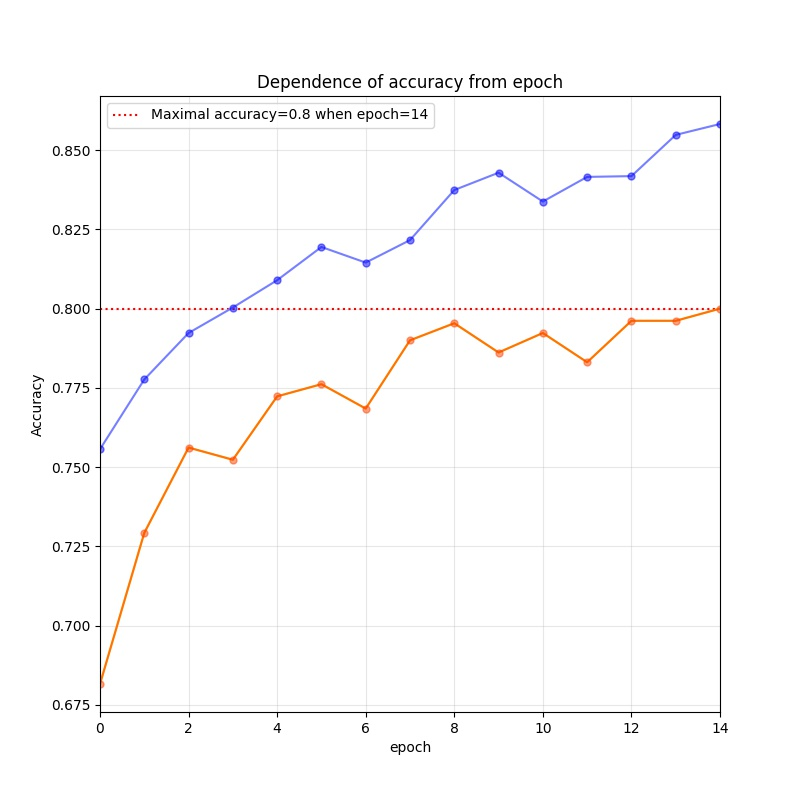
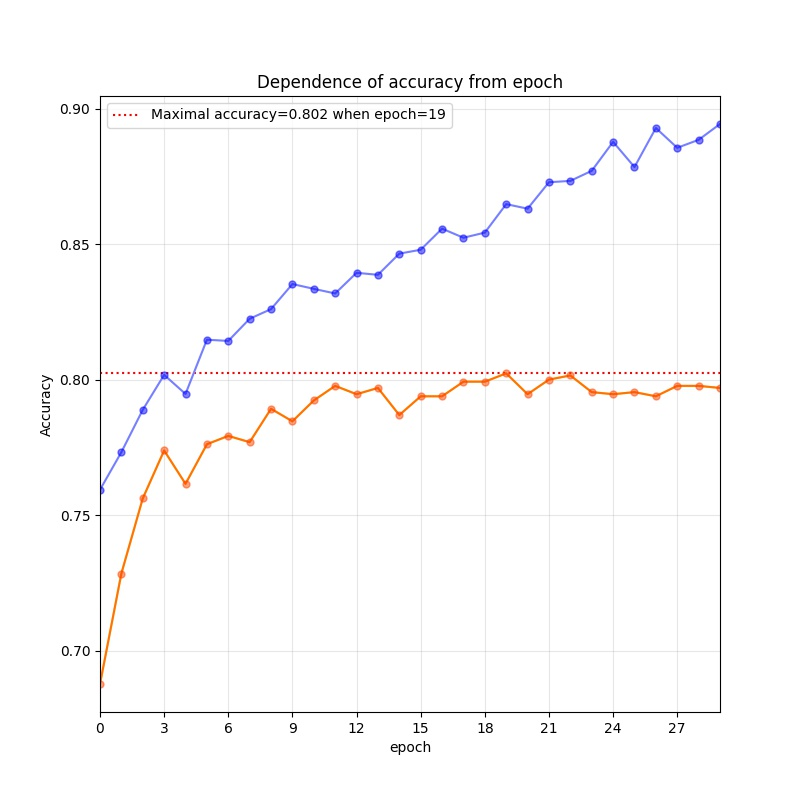
refactoring

diff --git a/src/polarity/loader.py b/src/polarity/loader.py
@@ -10,14 +10,14 @@ from src.review.parsed_sentence import ParsedSentence
 Batch = namedtuple(
     'Batch',
     [
-        # indexes to set classification results
+        # Indexes to set classification results to sentence
         'sentence_index',
         'target_index',
-        # gpu part
+        # GPU part. This fields will be passed to GPU.
         'sentence_len',
         'embed_ids',
         'graph',
-        # cpu part
+        # CPU part
         'target_mask',
         'polarity'
     ])
@@ -26,12 +26,14 @@ Batch = namedtuple(
 class DataLoader:
     """DataLoader for polarity classifier.
 
-    Create batch element for every target.
+    Create batches from sentences. Create batch element for every target.
 
     Attributes
     ----------
     vocabulary : dict
-        dictionary where key is wordlemma_POS value - index in embedding matrix
+        dictionary where key is 'wordlemma_POS' value - index in embedding matrix
+    data : List[List[Batch]]
+        Split to chunks batch elements.
     """
     def __init__(self,
                  vocabulary: Dict[str, int],
@@ -47,8 +49,6 @@ class DataLoader:
         self.pad_word = pad_word
 
         data = self.process(sentences)
-        self.num_examples = len(data)
-
         data = [data[i:i + batch_size] for i in range(0, len(data), batch_size)]
         self.data = data
 
@@ -62,7 +62,13 @@ class DataLoader:
         return processed
 
     def process_sentence(self, sentence: ParsedSentence, sentence_index: int) -> List[Batch]:
-        """Process one sentence"""
+        """Process one sentence
+
+        Returns
+        -------
+        processed : List[Batch]
+            Batch elements for every target.
+        """
         processed = []
 
         embed_ids = []
@@ -98,18 +104,28 @@ class DataLoader:
                       polarity=polarity))
         return processed
 
-    def __getitem__(self, key: int) -> Batch:
+    def __getitem__(self, batch_index: int) -> Batch:
         """
-        Return batch as named tuple where each element is th.Tensor where
-        first dimension is element in batch
+        Return batch as named tuple where each element is th.Tensor or batched dgl.DGLGraph.
+        First dimension of tensors correspond to batch elements.
+
+        Parameters
+        ----------
+        batch_index : int
+            Index of batch in dataset.
+
+        Returns
+        -------
+        batch : Batch
+            namedtuple of th.Tensors and batched dgl.DGLGraph.
         """
 
-        if not isinstance(key, int):
+        if not isinstance(batch_index, int):
             raise TypeError
-        if key < 0 or key >= len(self.data):
+        if batch_index < 0 or batch_index >= len(self.data):
             raise IndexError
 
-        batch = self.data[key]
+        batch = self.data[batch_index]
         batch_size = len(batch)
         max_len = max([x.sentence_len for x in batch])
         batch = sort_by_sentence_len(batch=batch)
@@ -123,17 +139,16 @@ class DataLoader:
         for i, b in enumerate(batch):
             embed_ids[i, :b.sentence_len] = th.LongTensor(b.embed_ids)
 
-        batch = Batch(sentence_index=sentence_index,
-                      target_index=target_index,
-                      sentence_len=sentence_lens.to(self.device),
-                      embed_ids=embed_ids.to(self.device),
-                      graph=dgl.batch([item.graph for item in batch]),
-                      target_mask=th.cat([item.target_mask for item in batch]),
-                      polarity=polarity)
-        return batch
+        return Batch(sentence_index=sentence_index,
+                     target_index=target_index,
+                     sentence_len=sentence_lens.to(self.device),
+                     embed_ids=embed_ids.to(self.device),
+                     graph=dgl.batch([item.graph for item in batch]),
+                     target_mask=th.cat([item.target_mask for item in batch]),
+                     polarity=polarity)
 
     def __iter__(self) -> Batch:
-        """Iterate over batches"""
+        """Iterate over batches - chunks of dataset"""
         for i in range(self.__len__()):
             yield self.__getitem__(i)
 
@@ -143,8 +158,7 @@ class DataLoader:
 
 
 def sort_by_sentence_len(batch: List[Batch]) -> List[Batch]:
-    """
-    Sort sentences by descending order of it's len.
+    """Sort sentences by descending order of it's len.
 
     Not return original index because there is already sentence and target
     indexes in batch.

diff --git a/src/polarity/classifier.py b/src/polarity/classifier.py
@@ -15,7 +15,7 @@ from src import SCORE_DECIMAL_LEN, polarity_classifier_dump_path
 from src.review.parsed_sentence import ParsedSentence
 from src.review.target import Polarity
 from .loader import DataLoader, Batch
-from .nn.sequence_classifier import SequenceClassifier
+from .nn.target_classifier import TargetClassifier
 from .score.display import display_score
 
 
@@ -36,7 +36,7 @@ class PolarityClassifier:
                  word2vec: KeyedVectors = ...,
                  vocabulary: Dict[str, int] = ...,
                  emb_matrix: th.Tensor = ...,
-                 batch_size=50):
+                 batch_size=100):
         self.device = th.device('cuda' if th.cuda.is_available() else 'cpu')
         self.batch_size = batch_size
 
@@ -49,9 +49,9 @@ class PolarityClassifier:
 
         while True:
             try:
-                self.model = SequenceClassifier(emb_matrix=emb_matrix,
-                                                device=self.device,
-                                                num_class=len(Polarity))
+                self.model = TargetClassifier(emb_matrix=emb_matrix,
+                                              device=self.device,
+                                              num_class=len(Polarity))
             except RuntimeError as e:
                 if 'out of memory' in str(e):
                     # todo: handle
@@ -63,6 +63,7 @@ class PolarityClassifier:
                 break
 
     def batch_metrics(self, batch: Batch):
+        """Make a forward step and return metrics"""
         logits, gcn_outputs = self.model(embed_ids=batch.embed_ids,
                                          graph=batch.graph,
                                          target_mask=batch.target_mask,
@@ -81,7 +82,8 @@ class PolarityClassifier:
                 'lr': 0.01,
                 'weight_decay': 0,
             }),
-            num_epoch=15):
+            num_epoch=30):
+        """Fit on train sentences and save model state."""
         parameters = [p for p in self.model.parameters() if p.requires_grad]
         logging.info(
             f'Number of parameters: {sum((reduce(lambda x, y: x * y, p.shape)) for p in parameters)}'
@@ -153,6 +155,18 @@ class PolarityClassifier:
         return train_acc_history, val_acc_history
 
     def predict(self, sentences: List[ParsedSentence]) -> List[ParsedSentence]:
+        """Modify passed sentences. Define every target polarity.
+
+        Parameters
+        ----------
+        sentences : List[ParsedSentence]
+            Sentences with extracted targets.
+
+        Return
+        -------
+        sentences : List[ParsedSentence]
+            Sentences with defined polarity of every target.
+        """
         self.model.eval()
         sentences = copy.deepcopy(sentences)
         batches = DataLoader(sentences=sentences,
@@ -172,6 +186,7 @@ class PolarityClassifier:
         return sentences
 
     def save_model(self):
+        """Save model state."""
         th.save({
             'vocabulary': self.vocabulary,
             'model': self.model.state_dict()
@@ -179,6 +194,7 @@ class PolarityClassifier:
 
     @staticmethod
     def load_model() -> 'PolarityClassifier':
+        """Load pretrained model."""
         checkpoint = th.load(polarity_classifier_dump_path)
         model = checkpoint['model']
         classifier = PolarityClassifier(vocabulary=checkpoint['vocabulary'],

diff --git a/src/polarity/nn/target_classifier.py b/src/polarity/nn/target_classifier.py
@@ -1,3 +1,5 @@
+from typing import Tuple
+
 import torch as th
 import torch.nn as nn
 import dgl
@@ -5,7 +7,14 @@ import dgl
 from .nn import LSTMNN
 
 
-class SequenceClassifier(nn.Module):
+class TargetClassifier(nn.Module):
+    """Targets polarity classifier
+
+    Essential stages:
+    - Encode sequence elements with neural networks.
+    - Get encodings for targets.
+    - Map encodings to num_classes
+    """
     def __init__(self,
                  emb_matrix: th.Tensor,
                  device: th.device,
@@ -21,16 +30,25 @@ class SequenceClassifier(nn.Module):
         self.classifier = nn.Linear(tree_lstm_dim, num_class)
 
     def forward(self, embed_ids: th.Tensor, graph: dgl.DGLGraph, target_mask: th.Tensor,
-                sentence_len: th.Tensor):
+                sentence_len: th.Tensor) -> Tuple[th.Tensor, th.Tensor]:
+        """Forward step.
+
+        Return
+        -------
+        logits : th.Tensor
+            For every class.
+        outputs : th.Tensor
+            Hidden state (encoding) for every target.
+        """
         h = self.nn(embed_ids=embed_ids, graph=graph, sentence_len=sentence_len)
 
-        # get hidden state for each aspect
+        # get hidden state for every target
         h = h[target_mask.nonzero().squeeze(1)].cpu()
         target_lens = [
             int(x.sum().item()) for x in target_mask.split([l for l in sentence_len], dim=0)
         ]
         outputs = th.stack([x.sum(dim=0) / x.size(0) for x in h.split(target_lens, dim=0)])
 
-        # make predictions for each class
+        # make predictions for every class
         logits = self.classifier(outputs)
         return logits, outputs

diff --git a/src/target/internal_classifiers/random_forest.py b/src/target/internal_classifiers/random_forest.py
@@ -6,7 +6,7 @@ from sklearn.ensemble import RandomForestClassifier
 from gensim.models import KeyedVectors
 import numpy as np
 
-from src.target.target_classifier import TargetClassifier
+from src.target.miner import TargetMiner
 from src.review.parsed_sentence import ParsedSentence
 from ..score.optimal_parameter_oob import analyse_parameter_oob
 from ..score.metrics import print_sb12
@@ -36,7 +36,7 @@ def analyze_random_forest(word2vec: KeyedVectors, train_sentences: List[ParsedSe
         parameters[name] = optimal_param
         logging.info(f'{name}: {optimal_param}')
 
-    train_df, train_y = TargetClassifier.load_data()
+    train_df, train_y = TargetMiner.load_data()
 
     #     train_df, train_y = TargetClassifier(word2vec=word2vec).get_df(
     #         sentences=train_sentences)
@@ -52,7 +52,7 @@ def analyze_random_forest(word2vec: KeyedVectors, train_sentences: List[ParsedSe
     # test
     sentences_pred = copy.deepcopy(test_sentences)
     classifier = classifier_class(**parameters)
-    target_classifier = TargetClassifier(classifier=classifier, word2vec=word2vec)
+    target_classifier = TargetMiner(classifier=classifier, word2vec=word2vec)
     target_classifier.fit(df=train_df, y=train_y)
     sentences_pred = target_classifier.predict(sentences_pred)
     print_sb12(sentences=test_sentences, sentences_pred=sentences_pred)

diff --git a/source.py b/source.py
@@ -13,7 +13,7 @@ from src.preprocess.dep_parse import load_parsed_reviews
 from src import parsed_reviews_dump_path
 from src.utils.embedding import get_embeddings
 from src.target.internal_classifiers import analyze_random_forest
-from src.target.target_classifier import TargetClassifier
+from src.target.miner import TargetMiner
 from src.target.internal_classifiers.random_forest import parameters as random_forest_parameters
 from src.target.score.metrics import print_sb12
 from src.target.score.metrics import print_sb3
@@ -50,7 +50,7 @@ def targets_extraction(train_sentences: List[ParsedSentence],
                        test_sentences: List[ParsedSentence]):
     """Print metric for target extraction"""
     classifier = RandomForestClassifier(**random_forest_parameters)
-    target_classifier = TargetClassifier(classifier=classifier, word2vec=word2vec)
+    target_classifier = TargetMiner(classifier=classifier, word2vec=word2vec)
     target_classifier.fit(sentences=train_sentences)
     sentences_pred = target_classifier.predict(test_sentences)
     print_sb12(sentences=test_sentences, sentences_pred=sentences_pred)

diff --git a/src/target/score/optimal_parameter.py b/src/target/score/optimal_parameter.py
@@ -5,7 +5,7 @@ from tqdm import tqdm
 from gensim.models import KeyedVectors
 from sklearn.model_selection import KFold
 
-from src.target.target_classifier import TargetClassifier
+from src.target.miner import TargetMiner
 from src.review.parsed_sentence import ParsedSentence
 from .display import display_score
 
@@ -21,7 +21,7 @@ def calculate_score(sentences: List[ParsedSentence], classifier_class: type,
     scores = list()
     for train_indexes, test_indexes in KFold(n_splits=N_SPLITS).split(sentences):
         classifier = classifier_class(**{**fixed_parameters, parameter_name: parameter_val})
-        target_classifier = TargetClassifier(classifier=classifier, word2vec=word2vec)
+        target_classifier = TargetMiner(classifier=classifier, word2vec=word2vec)
         target_classifier.fit(sentences=[x for x in map(sentences.__getitem__, train_indexes)])
         scores.append(
             target_classifier.score(

diff --git a/src/target/internal_classifiers/gradient_boosting.py b/src/target/internal_classifiers/gradient_boosting.py
@@ -6,7 +6,7 @@ from sklearn.ensemble import GradientBoostingClassifier
 from gensim.models import KeyedVectors
 import numpy as np
 
-from src.target.target_classifier import TargetClassifier
+from src.target.miner import TargetMiner
 from src.review.parsed_sentence import ParsedSentence
 from ..score.optimal_parameter import analyse_parameter
 from ..score.metrics import print_sb12
@@ -42,7 +42,7 @@ def analyze_gradient_boosting(word2vec: KeyedVectors,
     # test
     sentences_pred = copy.deepcopy(test_sentences)
     classifier = classifier_class(**parameters)
-    target_classifier = TargetClassifier(classifier=classifier, word2vec=word2vec)
+    target_classifier = TargetMiner(classifier=classifier, word2vec=word2vec)
     target_classifier.fit(sentences=train_sentences)
     sentences_pred = target_classifier.predict(sentences_pred)
     print_sb12(sentences=test_sentences, sentences_pred=sentences_pred)

diff --git a/src/target/score/optimal_parameter_oob.py b/src/target/score/optimal_parameter_oob.py
@@ -5,14 +5,14 @@ from tqdm import tqdm
 import pandas as pd
 from gensim.models import KeyedVectors
 
-from src.target.target_classifier import TargetClassifier
+from src.target.miner import TargetMiner
 from .optimal_parameter import display_score
 
 
 def calculate_score_oob(classifier_class: type, word2vec: KeyedVectors, fixed_parameters: Dict,
                         df: pd.DataFrame, y, parameter_name: str, parameter_val) -> float:
     classifier = classifier_class(**{**fixed_parameters, parameter_name: parameter_val})
-    target_classifier = TargetClassifier(classifier=classifier, word2vec=word2vec)
+    target_classifier = TargetMiner(classifier=classifier, word2vec=word2vec)
     target_classifier.fit(df=df, y=y)
     return target_classifier.classifier.oob_score_
 

diff --git a/src/target/miner.py b/src/target/miner.py
@@ -22,7 +22,7 @@ from .labels import POS_LABELS, DEP_LABELS, ASPECT_LABELS, NONE_ASPECT_LABEL
 from .score.metrics import get_sb12
 
 
-class TargetClassifier:
+class TargetMiner:
     def __init__(self,
                  word2vec: KeyedVectors,
                  classifier=None,
@@ -259,7 +259,7 @@ class TargetClassifier:
             pickle.dump(self, f)
 
     @staticmethod
-    def load_classifier() -> 'TargetClassifier':
+    def load_classifier() -> 'TargetMiner':
         with open(sb12_classifier_path, 'rb') as f:
             classifier = pickle.load(f)
         return classifier

diff --git a/src/polarity/nn/nn.py b/src/polarity/nn/nn.py
@@ -9,6 +9,11 @@ from .tree_lstm import ChildSumTreeLSTMCell
 
 
 class LSTMNN(nn.Module):
+    """Stack of Bi-LSTM and Tree-LSTM neural networks.
+
+    First one run through sequence elements order. The last one run
+    through dependency tree of sentence.
+    """
     def __init__(self,
                  emb_matrix: th.Tensor,
                  device: th.device,
